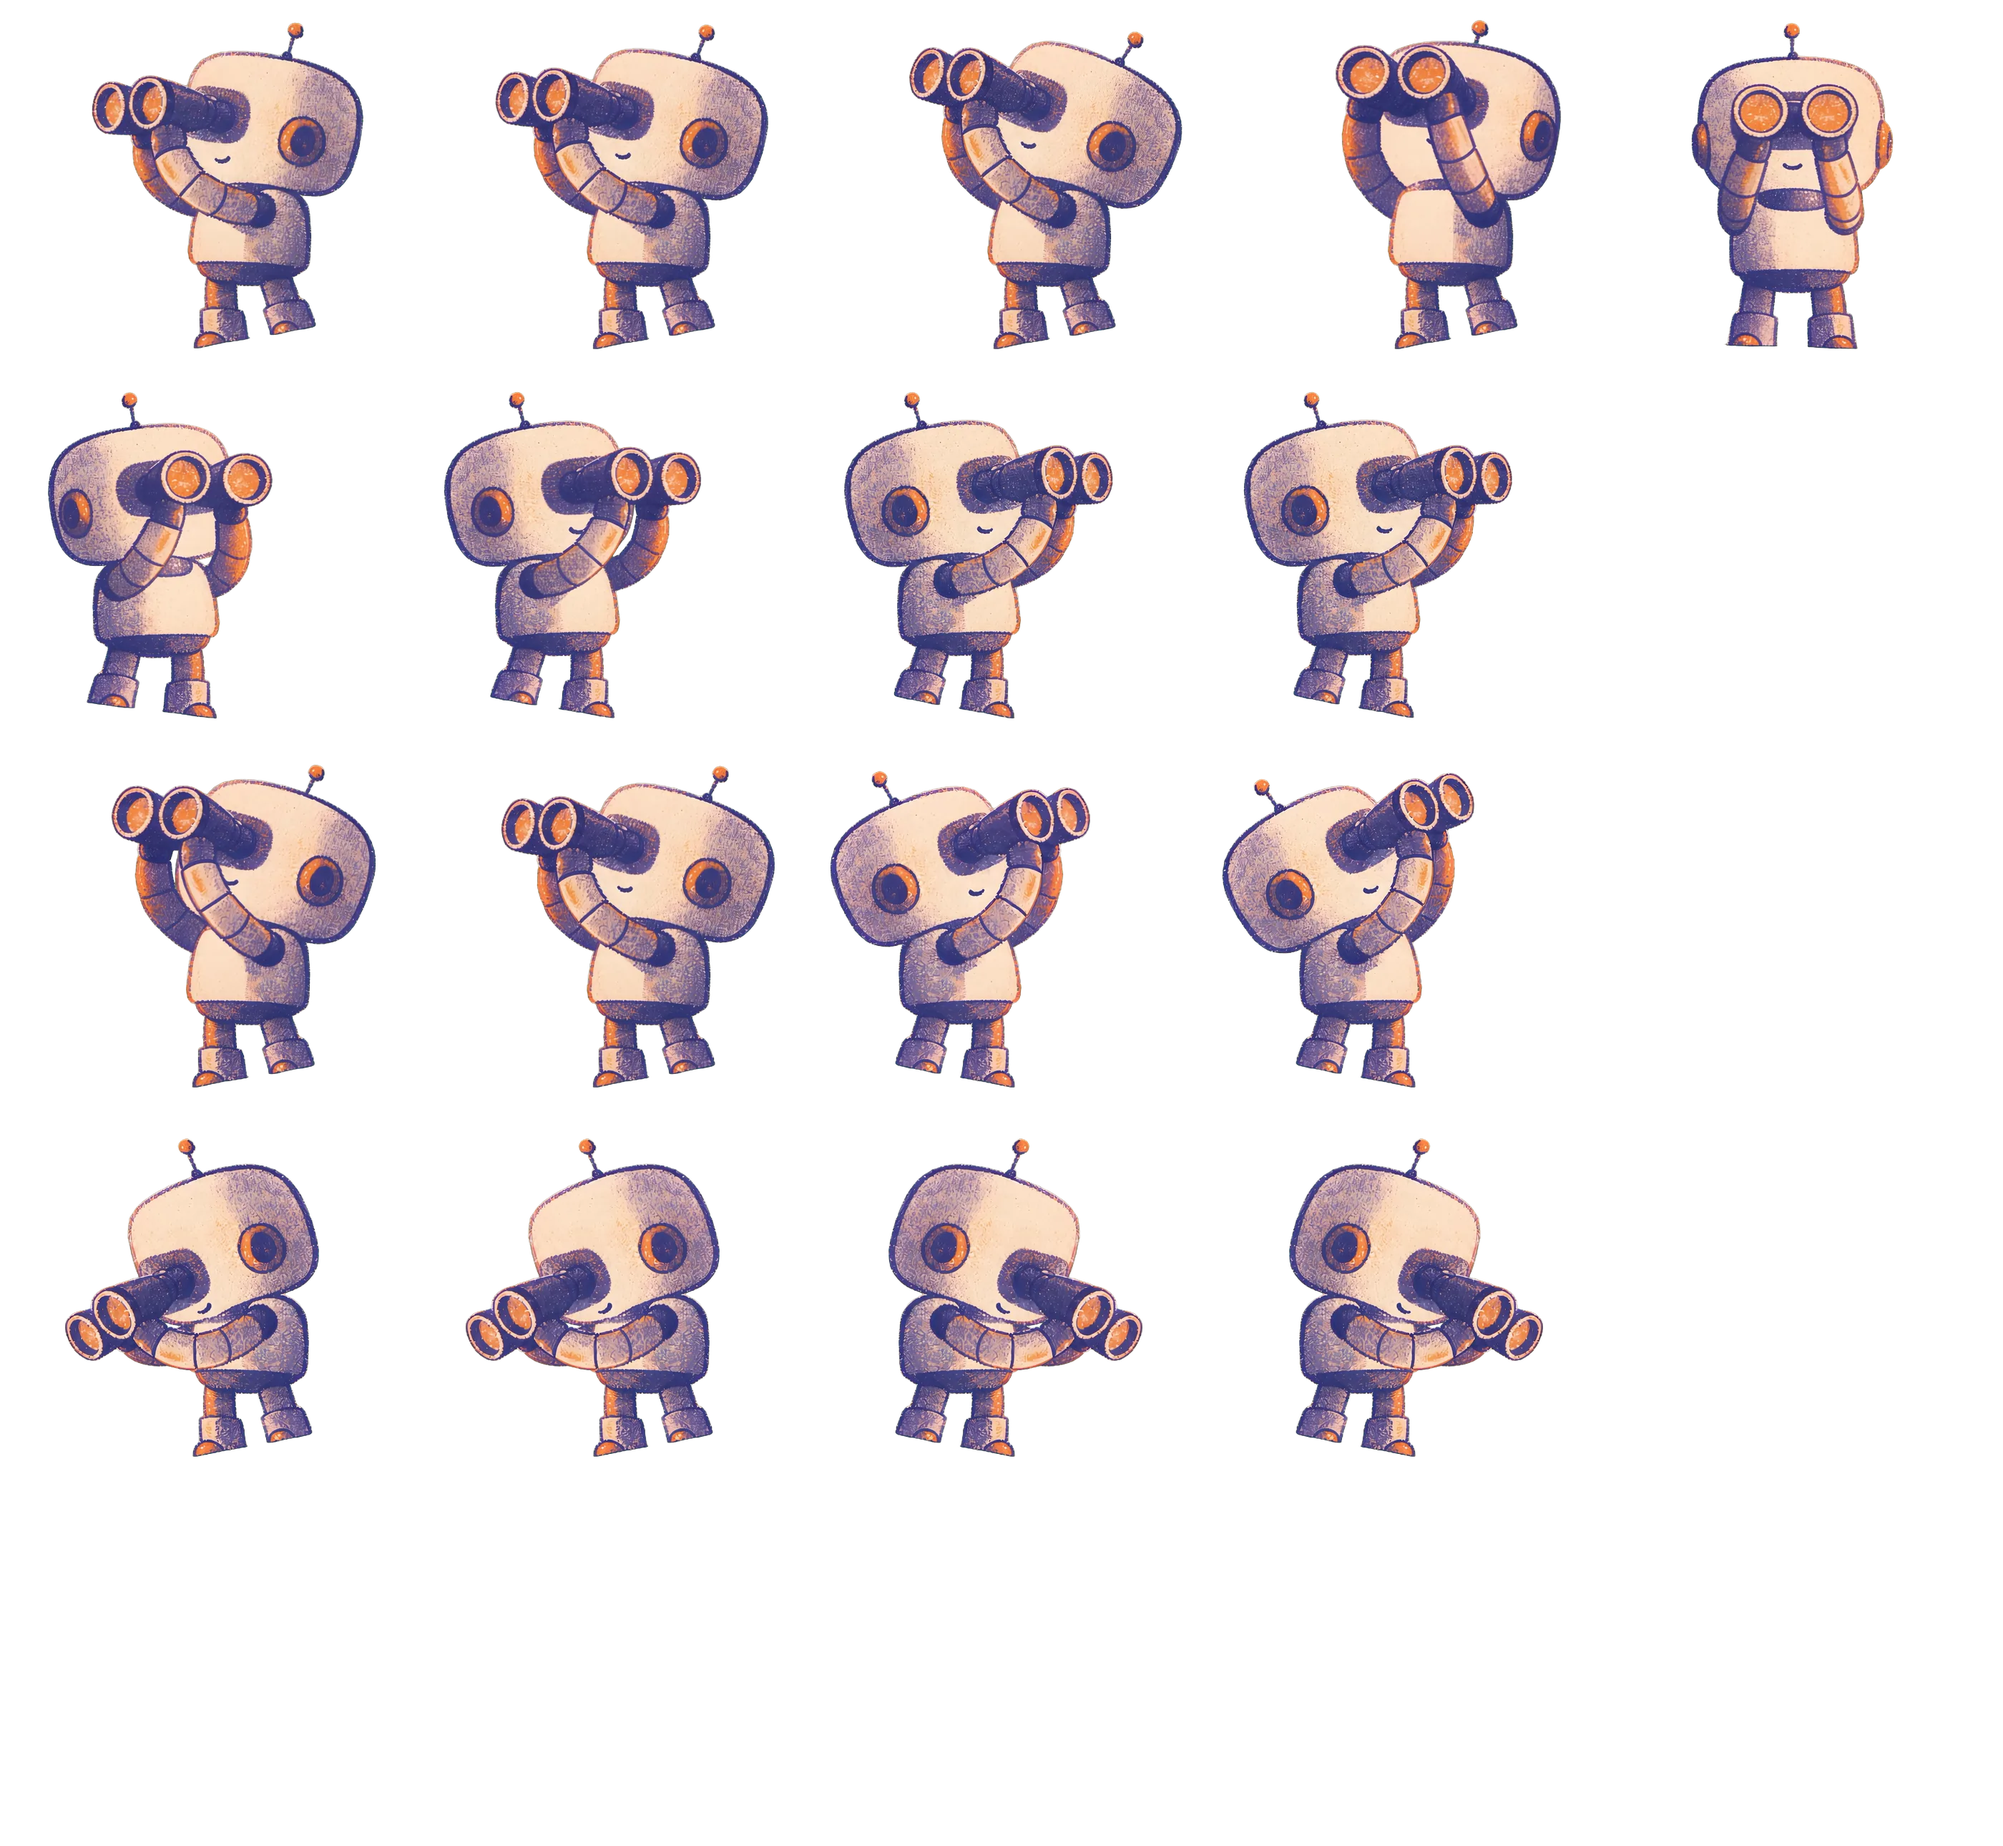
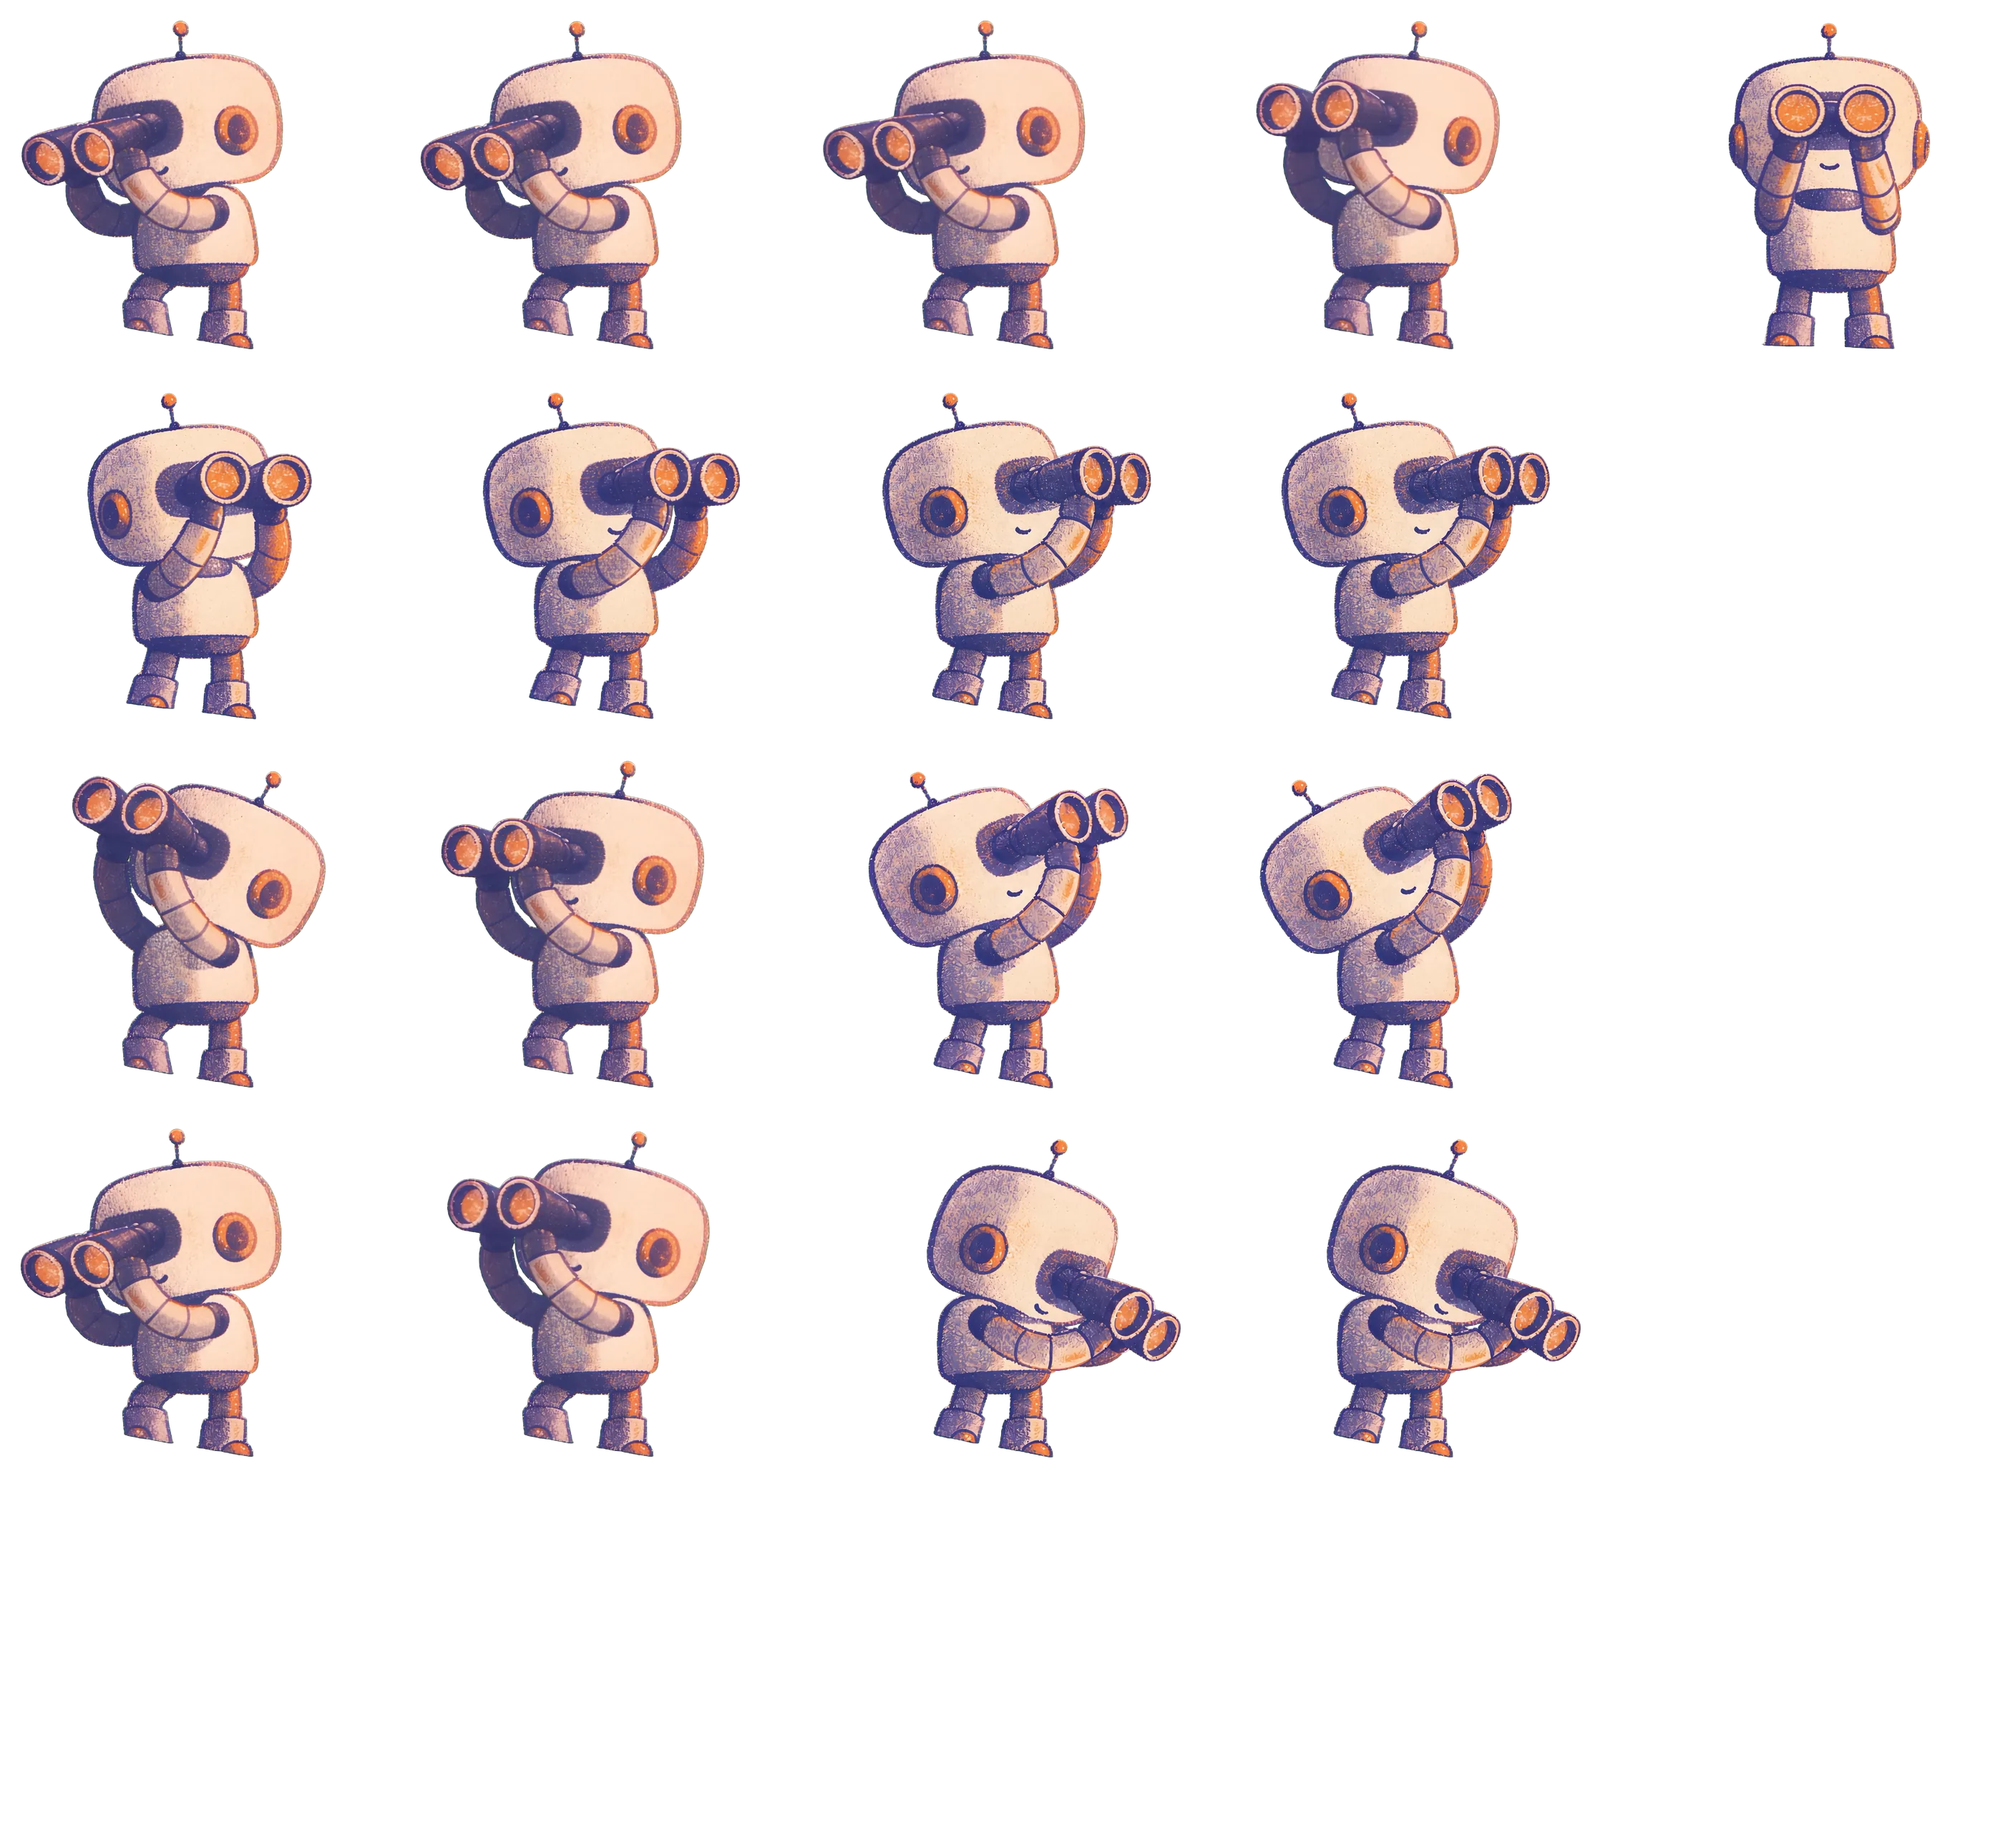
gaze v8: stance-locked left cells, boot-line gate, zero mirrors
Seedance binds stance chirality to gaze direction - three left shoots
morphed the boot line backwards (+32 -> -29px) as the head turned. Fix:
describe the hill and the boot heights IN the prompt ('right boot always
lower, glued to the hillside') seeded from an owner-certified good-stance
frame - every frame then holds +30..+32px with boots frozen to the pixel.
All 17 cells now pass a hard boot-line gate in the builder (right boot
lower, matching the constant hill); the last mirrors are gone.

diff --git a/public/style.css b/public/style.css
@@ -97,9 +97,9 @@ html, body { overflow-x: clip; }
 /* turn-frame atlas (5x3) — positioned so his planted feet match the static sprite */
 .scene-robot-frames {
   position: absolute;
-  left: -11.42%;
-  top: -6.07%;
-  width: 150.83%;
+  left: -26.21%;
+  top: -6.18%;
+  width: 150.56%;
   height: 111.44%;
   background-size: 500% 500%;
   background-repeat: no-repeat;
